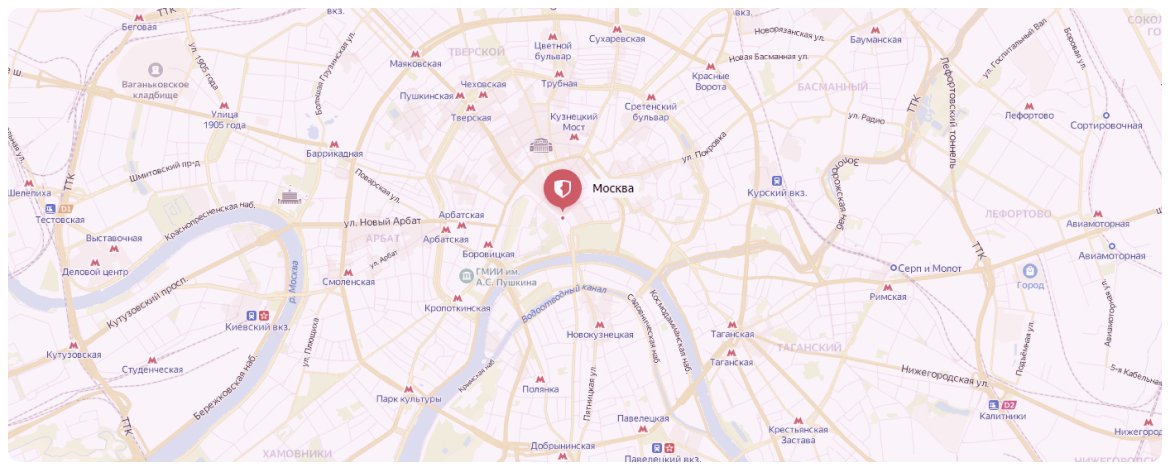
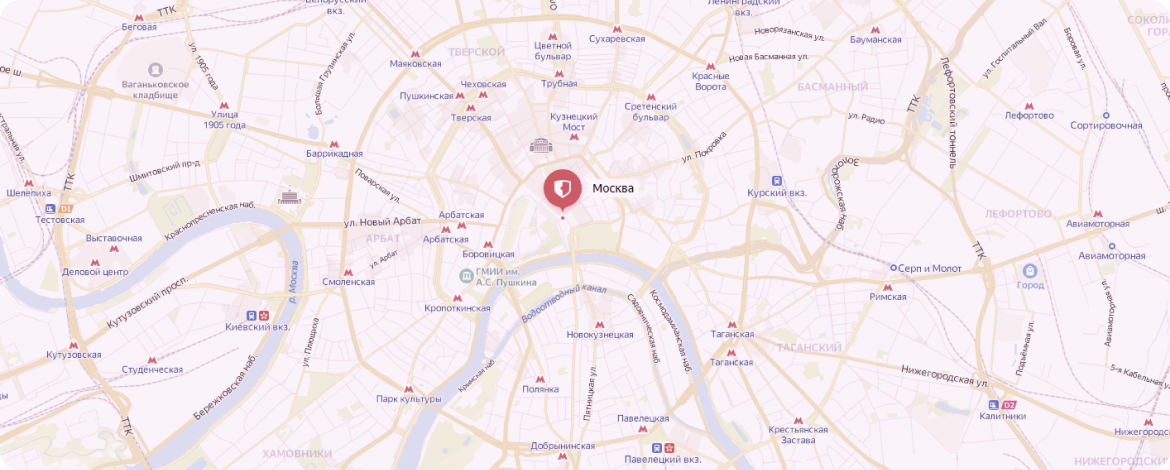
Contacts

diff --git a/contacts.html b/contacts.html
@@ -1,0 +1,238 @@
+<!DOCTYPE html>
+<html lang="ru">
+<head>
+  <meta charset="UTF-8">
+  <meta name="robots" content="noindex">
+  <meta  name="viewport" content="width=device-width,initial-scale=1">
+  <title>Title</title>
+  <link rel="preconnect" href="https://fonts.googleapis.com">
+  <link rel="preconnect" href="https://fonts.gstatic.com" crossorigin>
+  <link href="https://fonts.googleapis.com/css2?family=Tenor+Sans&display=swap" rel="stylesheet">
+  <link rel="stylesheet" href="https://cdnjs.cloudflare.com/ajax/libs/fancybox/3.3.1/jquery.fancybox.min.css">
+  <link rel="stylesheet" href="https://unpkg.com/swiper/swiper-bundle.min.css">
+  <link rel="stylesheet" href="css/style.min.css">
+</head>
+<body>
+  <header class="header header--internal">
+    <div class="wrapper header__wrap">
+      <a href="index.html" class="logo">
+        <img src="img/images/logo.svg" alt="Logo">
+      </a>
+      <div class="social">
+        <a href="#">instagram</a>
+        <a href="#">facebook</a>
+      </div>
+      <a href="tel:+78001230784" class="header__phone">8 800 123-07-84</a>
+      <a data-fancybox data-src="#call" href="javascript:;" class="btn btn--white header__btn">заказать звонок</a>
+    </div>
+    <button type="button" class="header__menu" title="Закрыть"></button>
+  </header>
+  
+  <nav class="menu">
+    <button type="button" class="menu__btn" title="Меню"></button>
+    <div class="wrapper menu__wrap">
+      <div class="menu__block">
+        <p class="menu__title">Курсы школы</p>
+        <ul class="menu__list">
+          <li class="menu__item"><a href="#">Курсы наращивания ресниц</a></li>
+          <li class="menu__item"><a href="#">Курсы бровистов</a></li>
+          <li class="menu__item"><a href="#">Перманентный макияж</a></li>
+          <li class="menu__item"><a href="#">Ногтевой сервис</a></li>
+        </ul>
+      </div>
+      <div class="menu__block">
+        <p class="menu__title">Информация</p>
+        <ul class="menu__list">
+          <li class="menu__item"><a href="#">О нас</a></li>
+          <li class="menu__item"><a href="#">Моделям</a></li>
+          <li class="menu__item menu__item--active"><a href="#">Контакты</a></li>
+          <li class="menu__item"><a href="#">Обратная связь</a></li>
+          <li class="menu__item"><a href="#">Отзывы</a></li>
+        </ul>
+      </div>
+    </div>
+  </nav>
+  
+  <main>
+    <nav class="breadcrumbs breadcrumbs--white">
+      <div class="wrapper">
+        <a href="#" class="breadcrumbs__link">Главная</a>
+        <span class="breadcrumbs__link">Все курсы</span>
+      </div>
+    </nav>
+    
+    <section class="contacts">
+      <div class="wrapper">
+        <p class="subtitle">Связь с нами</p>
+        <p class="title">Контакты академии</p>
+        <p class="undertitle">Контакты</p>
+        <div class="contacts__wrap">
+          <div class="contacts__block">
+            <ul class="contacts__list">
+              <li class="contacts__item">
+                <b>Адрес</b>
+                <address>г. Мытищи, ул. Пушкина, д. 123</address>
+              </li>
+              <li class="contacts__item">
+                <b>Телефон</b>
+                <a href="tel:+79261466340">+7 926 146-63-40</a>
+              </li>
+              <li class="contacts__item">
+                <b>Время работы</b>
+                <p>ПН-вс 09:00 — 18:00</p>
+                <p>без выходных</p>
+              </li>
+              <li class="contacts__item">
+                <b>E-mail</b>
+                <a href="mailto:edvard.abramov@gmail.com">edvard.abramov@gmail.com</a>
+              </li>
+            </ul>
+          </div>
+          <div class="contacts__form">
+            <figure class="modal__ava">
+              <img src="img/images/ava-3.jpg" alt="Оставьте заявку">
+            </figure>
+            <p class="modal__title">Оставьте заявку</p>
+            <p class="modal__subtitle">И наш менеджер свяжется с Вами в течении 15 минут</p>
+            <form action="#" class="form">
+              <div class="form__field form__field--name">
+                <label for="" class="form__label">Ваше имя</label>
+                <input type="text" class="form__input" placeholder="Валерия">
+              </div>
+              <div class="form__field form__field--phone">
+                <label for="" class="form__label">ВАШ ТЕЛЕФОН</label>
+                <input type="tel" class="form__input" placeholder="+7 (___) __ - __ - ___">
+              </div>
+              <button type="submit" class="btn btn--shadow form__btn">заказать звонок</button>
+              <p class="form__comment">Отправляя форму вы соглашаетесь с условиями обработки <a href="#">персональных данных</a></p>
+            </form>
+          </div>
+        </div>
+        
+        <p class="title">Карта проезда</p>
+        <div class="contacts__map">
+          <iframe src="https://yandex.com/map-widget/v1/-/CCUuRXc1KD" allowfullscreen="true" style="position:relative;"></iframe>
+        </div>
+      </div>
+    </section>
+    
+    <section class="insta">
+      <div class="wrapper">
+        <p class="insta__hash">#belly school</p>
+        <p class="title">Мы в instagram</p>
+        <p class="subtitle-2">Подписывайтесь на наш Instagram, следите за полезным контентом и жизнью студии</p>
+        <p class="undertitle">Instagram</p>
+        <ul class="insta__list">
+          <li class="insta__item">
+            <a href="#" class="insta__link">
+              <img src="img/images/img-25.jpg" alt="@belly school mk">
+              <div class="insta__text">@belly school mk</div>
+            </a>
+          </li>
+          <li class="insta__item">
+            <a href="#" class="insta__link">
+              <img src="img/images/img-22.jpg" alt="@belly school mk">
+              <div class="insta__text">@belly school mk</div>
+            </a>
+          </li>
+          <li class="insta__item">
+            <a href="#" class="insta__link">
+              <img src="img/images/img-23.jpg" alt="@belly school mk">
+              <div class="insta__text">@belly school mk</div>
+            </a>
+          </li>
+          <li class="insta__item">
+            <a href="#" class="insta__link">
+              <img src="img/images/img-24.jpg" alt="@belly school mk">
+              <div class="insta__text">@belly school mk</div>
+            </a>
+          </li>
+        </ul>
+      </div>
+    </section>
+  </main>
+  
+  <footer class="footer">
+    <div class="wrapper footer__top">
+      <div class="footer__data">
+        <div class="logo">
+          <img src="img/images/logo.svg" alt="Logo">
+        </div>
+        <div class="footer__block">
+          <p class="footer__subtitle">Адрес студии</p>
+          <address>г. Москва ул. Кедрова 15, п. 3, этаж 2.</address>
+        </div>
+        <div class="footer__block">
+          <p class="footer__subtitle">Режим работы</p>
+          <div>Будни 10:00 – 21:00<br>Выходные 10:00 – 21:00</div>
+        </div>
+      </div>
+      <div class="footer__links footer__links--info">
+        <p class="footer__title">Информация</p>
+        <ul class="footer__list">
+          <li><a href="#">О нас</a></li>
+          <li><a href="#">Моделям</a></li>
+          <li><a href="#">Контакты</a></li>
+          <li><a href="#">Обратная связь</a></li>
+          <li><a href="#">Отзывы</a></li>
+        </ul>
+      </div>
+      <div class="footer__links footer__links--school">
+        <p class="footer__title">Курсы школы</p>
+        <ul class="footer__list">
+          <li><a href="#">Курсы наращивания ресниц</a></li>
+          <li><a href="#">Курсы бровистов</a></li>
+          <li><a href="#">Перманентный макияж</a></li>
+        </ul>
+      </div>
+      <div class="footer__contacts">
+        <div class="footer__phone">
+          <a href="tel:+78001230784" class="footer__call">8 800 123-07-84</a>
+          <a data-fancybox data-src="#call" href="javascript:;" class="footer__link">Заказать звонок</a>
+        </div>
+        <div class="footer__block">
+          <p class="footer__subtitle">e-mail</p>
+          <a href="mailto:info@bell-yschool.ru" class="footer__mail">info@bell-yschool.ru</a>
+        </div>
+        <div class="social">
+          <a href="#">instagram</a>
+          <a href="#">facebook</a>
+        </div>
+      </div>
+    </div>
+    <div class="wrapper">
+      <div class="footer__bottom">
+        <span>© 2021 ООО Бэлли Шуль</span>
+        <div class="footer__license">Образовательная лицензия номер: 038550 Серия 77ЛО1 №0009395</div>
+        <a href="#">Политика конфиденциальности</a>
+      </div>
+    </div>
+  </footer>
+  
+  <!-- Modal window -->
+  <div style="display: none;" id="call" class="modal">
+    <figure class="modal__ava">
+      <img src="img/images/ava-3.jpg" alt="Оставьте заявку">
+    </figure>
+    <p class="modal__title">Оставьте заявку</p>
+    <p class="modal__subtitle">И наш менеджер свяжется с Вами в течении 15 минут</p>
+    <form action="#" class="form">
+      <div class="form__field form__field--name">
+        <label for="" class="form__label">Ваше имя</label>
+        <input type="text" class="form__input" placeholder="Валерия">
+      </div>
+      <div class="form__field form__field--phone">
+        <label for="" class="form__label">ВАШ ТЕЛЕФОН</label>
+        <input type="tel" class="form__input" placeholder="+7 (___) __ - __ - ___">
+      </div>
+      <button type="submit" class="btn btn--shadow form__btn">заказать звонок</button>
+      <p class="form__comment">Отправляя форму вы соглашаетесь с условиями обработки <a href="#">персональных данных</a></p>
+    </form>
+  </div>
+  
+  <script src="js/jquery-3.2.1.min.js"></script>
+  <script src="https://cdnjs.cloudflare.com/ajax/libs/fancybox/3.3.1/jquery.fancybox.min.js"></script>
+  <script src="https://unpkg.com/swiper/swiper-bundle.min.js"></script>
+  <script src="js/script.js"></script>
+</body>
+</html>

diff --git a/less/blocks/contacts.less b/less/blocks/contacts.less
@@ -1,0 +1,107 @@
+.contacts {
+  position: relative;
+  padding-top: 107px;
+  padding-bottom: 30px;
+  background: #FCF8FB;
+}
+.contacts__wrap {
+  position: relative;
+  z-index: 5;
+  display: flex;
+  justify-content: space-between;
+  margin-top: 53px;
+  margin-bottom: 67px;
+}
+.contacts__form {
+  width: 46%;
+  padding: 20px 60px;
+  padding-top: 28px;
+  color: #fff;
+  border-radius: 20px;
+  background-color: #0B0B11;
+  background-image: radial-gradient(50% 50% at 50% 50%, rgba(159, 192, 255,0.2) 0%, rgba(255, 255, 255, 0) 100%);
+  box-shadow: 0px 4px 24px rgba(0, 0, 0, 0.1);
+  
+  .modal__subtitle {
+    max-width: 100%;
+    margin-bottom: 30px;
+  }
+  .form__btn {
+    margin-top: 30px;
+  }
+  .form__comment {
+    margin-left: -15px;
+    margin-right: -15px;
+    
+    a {
+      text-decoration: none;
+      
+      &:hover,
+      &:active {
+        
+      }
+    }
+  }
+}
+.contacts__block {
+  width: 49%;
+  padding: 54px 70px;
+  padding-bottom: 49px;
+  background: #FFFFFF;
+  box-shadow: 0px 4px 32px rgba(64, 6, 57, 0.1);
+  border-radius: 30px;
+}
+.contacts__list {
+  .reset();
+  list-style: none;
+}
+.contacts__item {
+  padding: 14px 34px;
+  margin-bottom: 10px;
+  background: #F6F7F8;
+  border-radius: 12px;
+  font-size: 16px;
+  line-height: 24px;
+  
+  &:last-child {
+    margin-bottom: 0;
+  }
+  b {
+    display: block;
+    margin-bottom: 8px;
+    font-weight: 400;
+    color: #E22D58;
+  }
+  a {
+    display: block;
+    text-decoration: none;
+    
+    &:hover,
+    &:active {
+      text-decoration: underline;
+    }
+  }
+  p {
+    margin: 0;
+  }
+}
+.contacts__map {
+  height: 470px;
+//  margin-bottom: 29px;
+  margin-top: 53px;
+  border: 8px solid #FFFFFF;
+  box-shadow: 0px 4px 24px rgba(0, 0, 0, 0.1);
+  border-radius: 20px;
+  background-image: url(../img/images/map.jpg);
+  background-repeat: no-repeat;
+  background-position: center;
+  background-size: cover;
+  overflow: hidden;
+  
+  iframe {
+    display: block;
+    border: 0;
+    width: 100%;
+    height: 470px;
+  }
+}

diff --git a/less/blocks/breadcrumbs.less b/less/blocks/breadcrumbs.less
@@ -3,6 +3,10 @@
   padding-top: 28px;
   padding-bottom: 24px;
   background: #FCF8FB;
+  
+  &--white {
+    background: #FFFFFF;
+  }
 }
 .breadcrumbs__link {
   display: inline-block;

diff --git a/less/style.less b/less/style.less
@@ -23,3 +23,4 @@
 @import "blocks/form";
 @import "blocks/breadcrumbs";
 @import "blocks/profession";
+@import "blocks/contacts";
